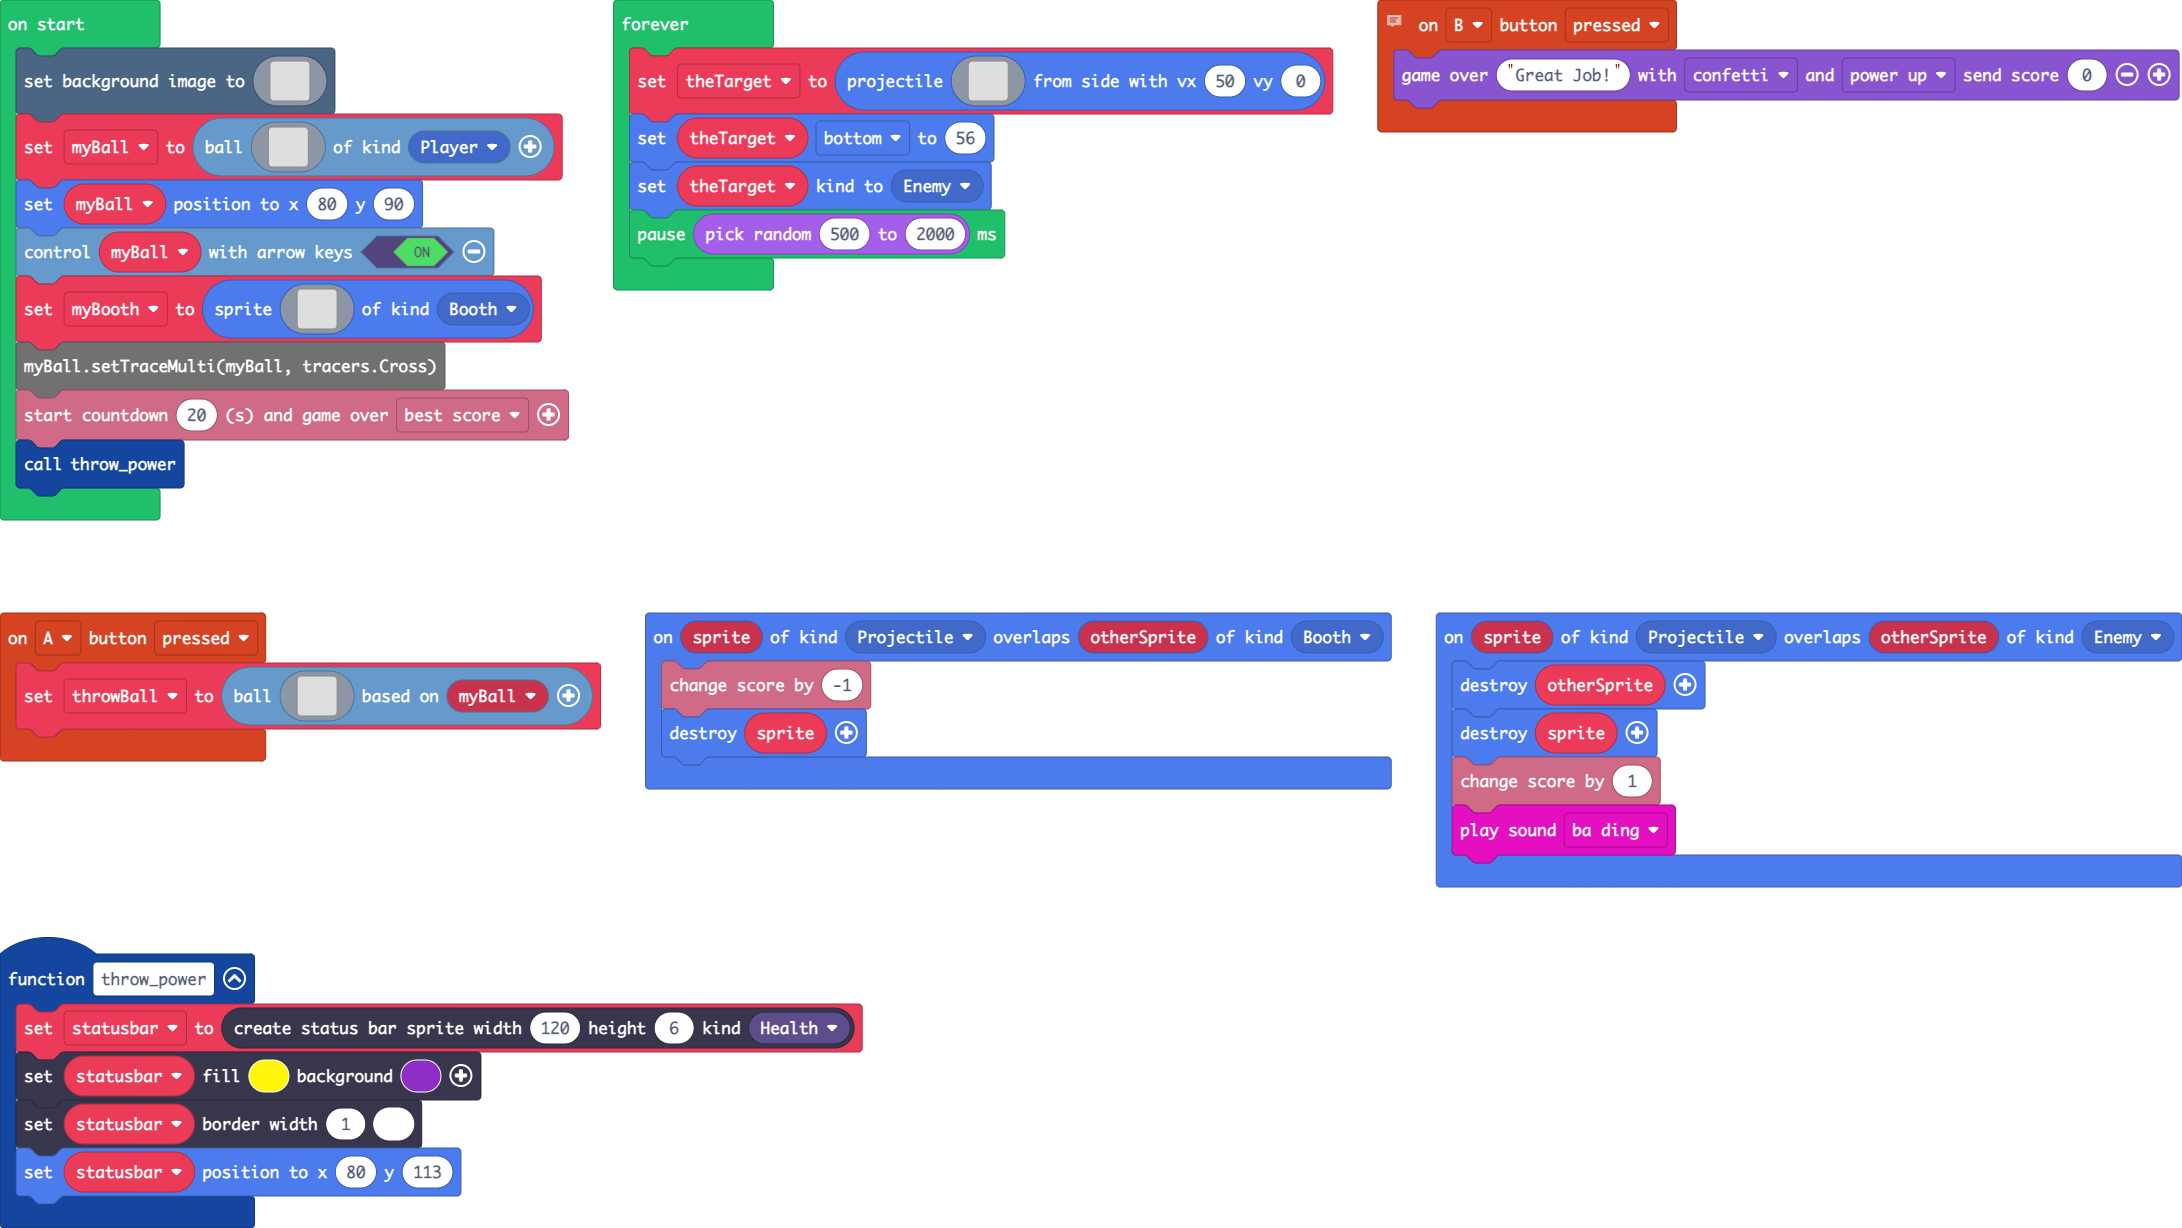
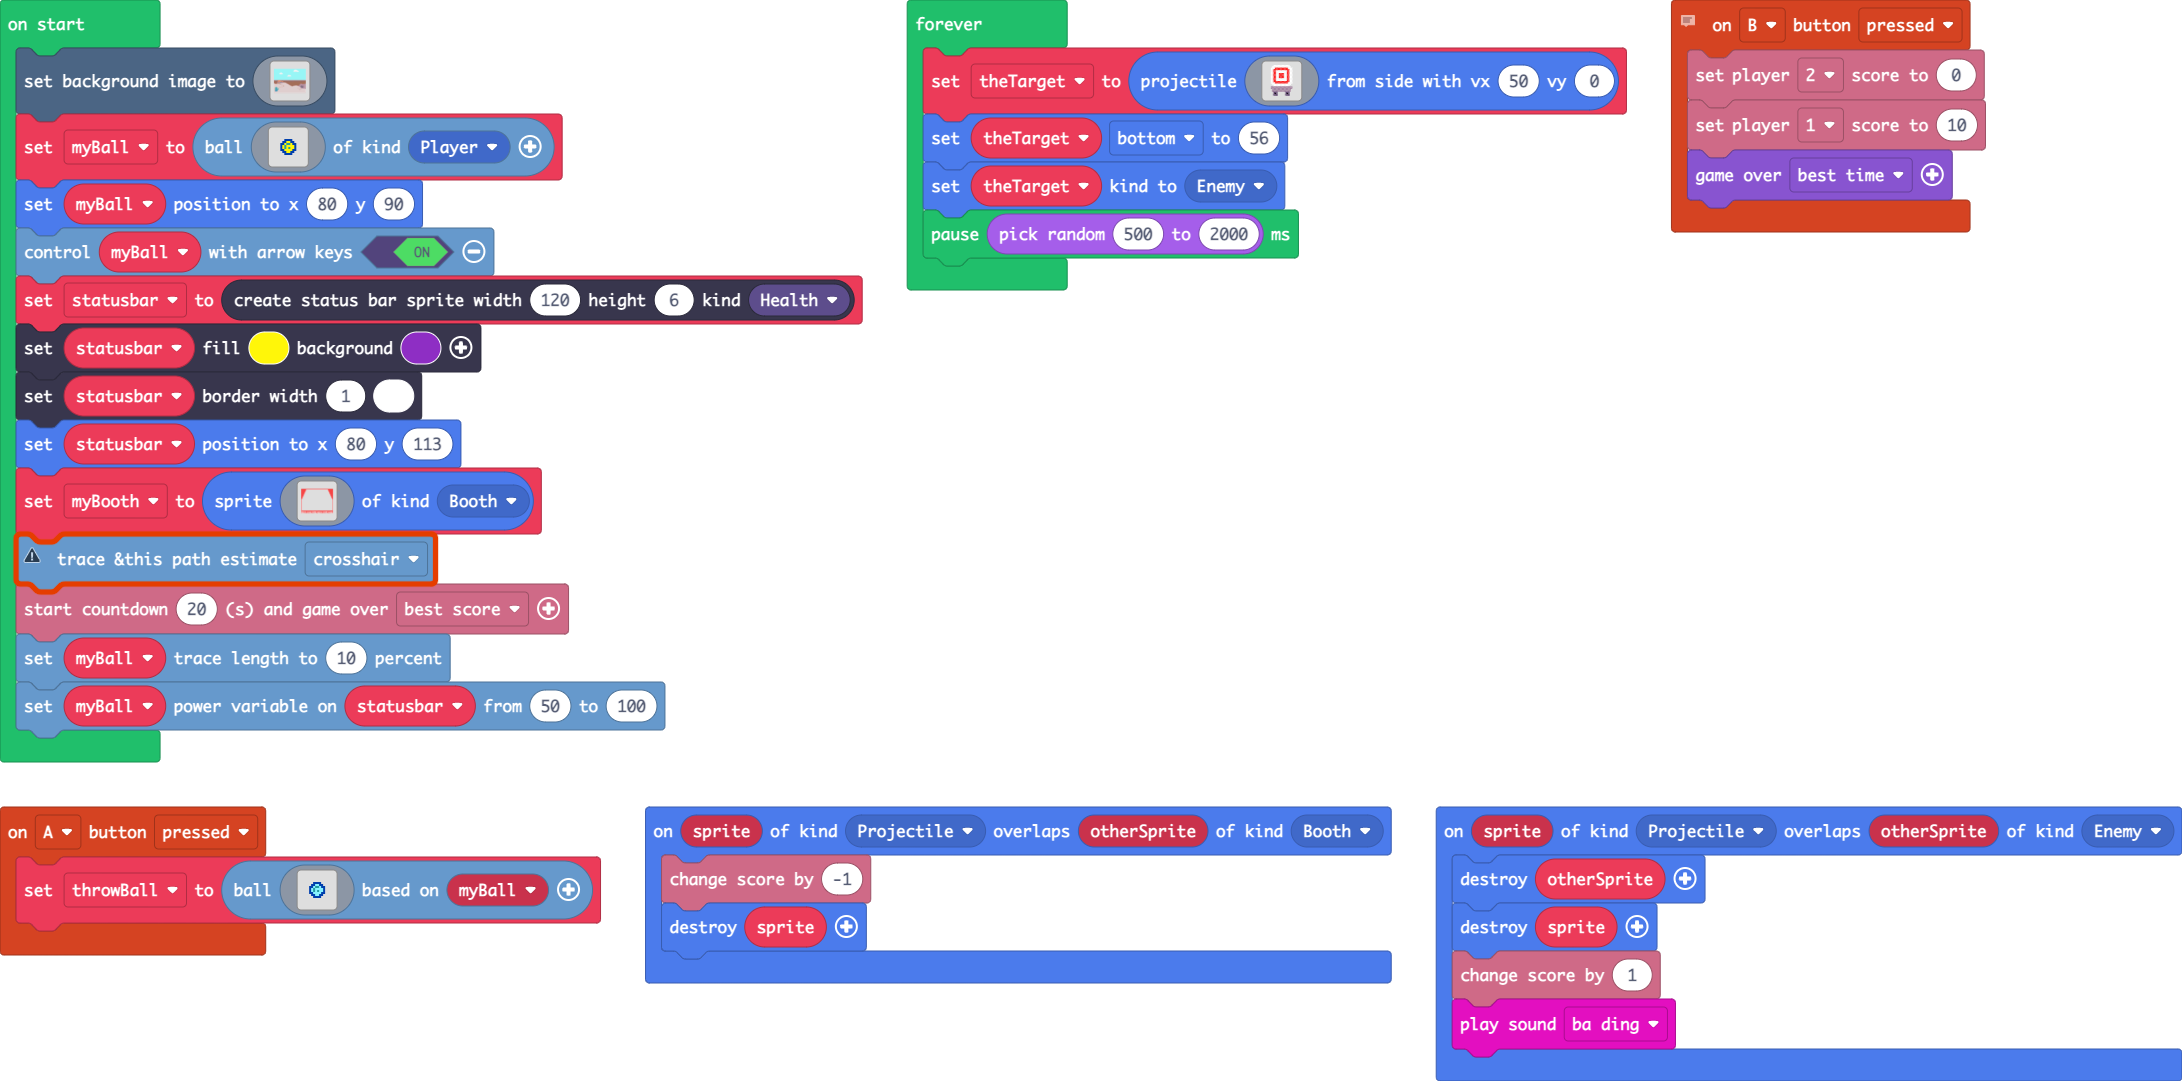
Still issues with $this

diff --git a/main.ts b/main.ts
@@ -1,11 +1,9 @@
-
 // game.onGameOverExpanded(winTypes.Multi)
+// game.customGameOverExpanded("Spooky!", effects.confetti, music.magicWand, scoreTypes.LTime, 200)
 controller.B.onEvent(ControllerButtonEvent.Pressed, function () {
     info.player2.setScore(0)
     info.player1.setScore(10)
     game.onGameOverExpanded(winTypes.Timed)
-    //game.customGameOverExpanded("Spooky!", effects.confetti, music.magicWand, scoreTypes.LTime, 200)
-
 })
 controller.A.onEvent(ControllerButtonEvent.Pressed, function () {
     throwBall = ball.createProjectileBallFromSprite(assets.image`ball-blue`, myBall)
@@ -14,7 +12,6 @@ sprites.onOverlap(SpriteKind.Projectile, SpriteKind.Booth, function (sprite, oth
     info.changeScoreBy(-1)
     sprite.destroy()
 })
-
 sprites.onOverlap(SpriteKind.Projectile, SpriteKind.Enemy, function (sprite, otherSprite) {
     otherSprite.destroy()
     sprite.destroy()
@@ -25,7 +22,6 @@ let theTarget: Sprite = null
 let throwBall: Ball = null
 let myBall: Ball = null
 scene.setBackgroundImage(assets.image`wildWest`)
-
 myBall = ball.create(assets.image`ball-yellow`, SpriteKind.Player)
 myBall.setPosition(80, 90)
 myBall.controlWithArrowKeys(true)
@@ -34,11 +30,10 @@ statusbar.setColor(5, 10)
 statusbar.setBarBorder(1, 1)
 statusbar.setPosition(80, 113)
 let myBooth = sprites.create(assets.image`booth`, SpriteKind.Booth)
-myBall.setTraceMulti(tracers.Cross)
+tracers.Cross.setTraceMulti(tracers.Cross)
 info.startCountdownGame(20, winTypes.Score)
 myBall.setIter(10)
 myBall.variablePower(statusbar, 50, 100)
-
 forever(function () {
     theTarget = sprites.createProjectileFromSide(assets.image`target`, 50, 0)
     theTarget.bottom = 56

diff --git a/custom.ts b/custom.ts
@@ -816,8 +816,10 @@ class Ball extends sprites.ExtendableSprite {
   * to adjust the angle, and up and down to increase / decrease power
   * @param on whether to turn on or off this feature, eg: true
   */
-    //% blockId=variablePower block="set $this power variable on $status from $minNum=0 to $maxNum=100"
+    //% blockId=variablePower block="set $this power variable on $status from $minNum to $maxNum"
     //% weight=50
+    //% minNum.defl = 50
+    //% maxNum.defl = 100
     //% group="Actions"
     public variablePower(status: StatusBarSprite, minNum: number, maxNum: number): void {
 
